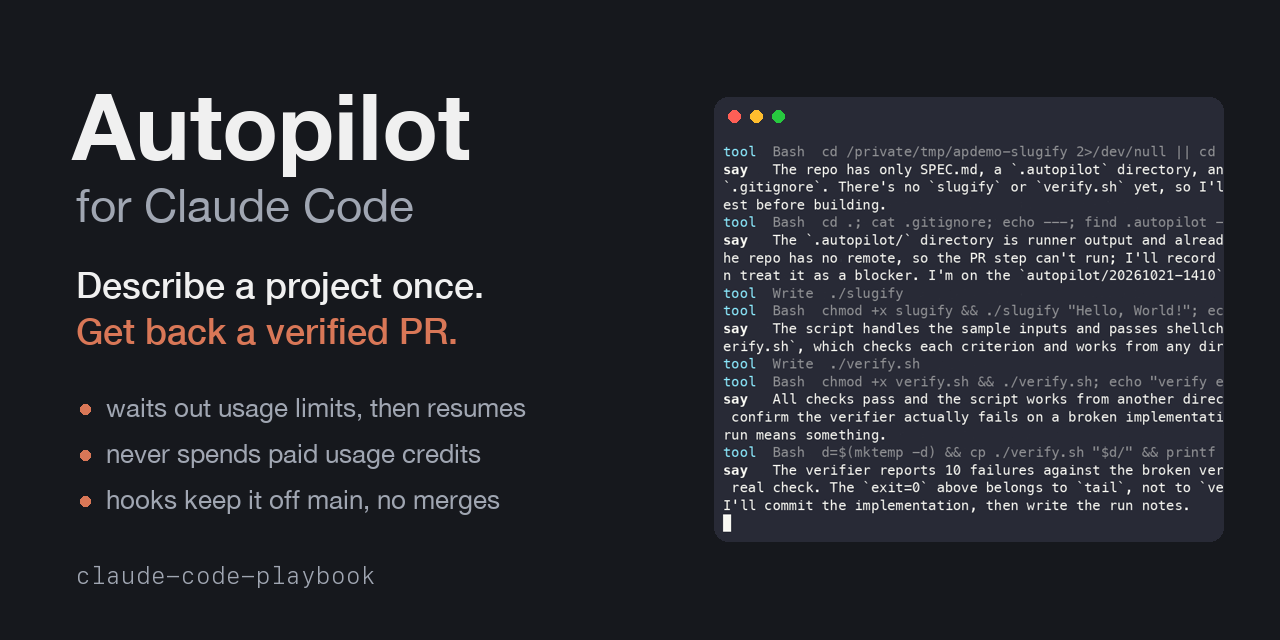
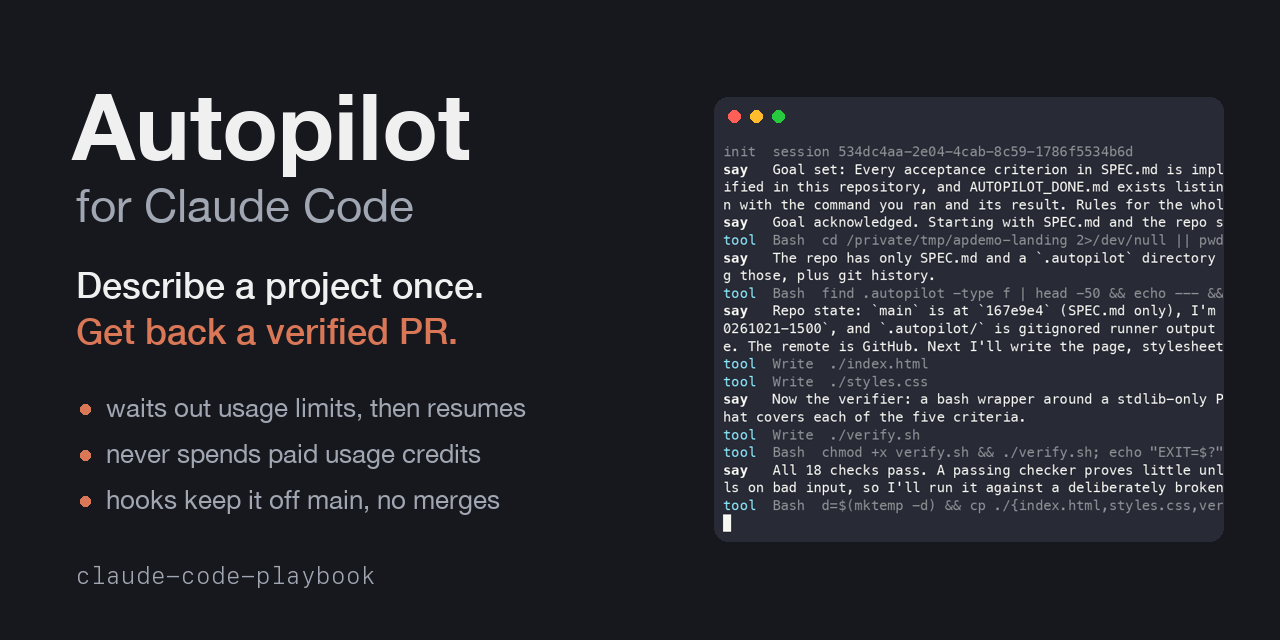
Demo: a real run that opens its own PR; fix duplicated runner log lines
The demo now records autopilot building a landing page against a throwaway
private GitHub repo, so the GIF ends on the PR it opened. That was also the
first live end-to-end check of the PR step. Recording it showed `autopilot
start` writing every log line twice (stderr was also redirected into the log
that log() appends to) and a "No such file" error on the first attempt; both
fixed, with tests that fail without the fix.

Changed region(s): [[0.5625, 0.2188, 0.9688, 0.8125], [0.5625, 0.2188, 0.5938, 0.25]]

diff --git a/docs/assets/tidy_cast.py b/docs/assets/tidy_cast.py
@@ -11,7 +11,8 @@ hdr = json.loads(lines[0])
 out = [json.dumps(hdr)]
 GREEN, CYAN, DIM, BOLD, RST = '\x1b[32m', '\x1b[36m', '\x1b[2m', '\x1b[1m', '\x1b[0m'
 def fix(l):
-    l = l.replace('/private/tmp/apdemo/slugify/', './').replace('/private/tmp/apdemo/slugify', '.').replace('/tmp/apdemo/slugify', '.')
+    l = re.sub(r'(/private)?/tmp/apdemo/[\w-]+/', './', l)
+    l = re.sub(r'(/private)?/tmp/apdemo/[\w-]+\b', '.', l)
     m = re.match(r'^(tool|say|init|end)(\s+)(.*)$', l)
     if not m: return l
     tag, sp, rest = m.groups()

diff --git a/docs/pr/2026-10-21-docs-demo-assets.md b/docs/pr/2026-10-21-docs-demo-assets.md
@@ -1,42 +1,61 @@
-# Demo GIF readable on phones, with a title header; social preview image
+# Demo of a real run that opens its own PR; GIF readable on phones; two runner log fixes
 
 ## Summary
-The demo GIF from #2 used 100 columns at 14px. On a phone, where most people will first see it in a post on X, the text was unreadable. This PR re-renders the same recording, without running autopilot again, at 76 columns and 22px with a title header. It also adds a 1280x640 social preview image for the repo's link card, and the scripts that produce both. The README caption now states exactly what was changed for display, and that the demo project has no remote, so the run stops before the PR step.
+The first demo GIF (#2) stopped before the PR step, because the demo project had no remote. It was also too small to read on a phone. This PR records a new real run against a throwaway private GitHub repo, [`autopilot-demo-landing`](https://github.com/filipejesse/autopilot-demo-landing/pull/1). Autopilot builds a small landing page from a 5-criterion SPEC.md, verifies it with 18 checks, and **opens its own pull request with a PR doc**, in about 1 min 45 s. It is the first live end-to-end check of that step. The GIF is rendered at phone-readable size with a title header. A social preview image is added. Recording the demo also surfaced two cosmetic runner bugs, fixed here with regression tests.
 
 ## Changes
-- Demo GIF re-rendered: 76 cols, 22px SF Mono, header "Autopilot for Claude Code / Describe a project once. Get back a verified PR.", about 33 s (`docs/assets/autopilot-demo.gif`)
+- Demo script now builds the "Acme Notes" landing page and, with `DEMO_REPO` set, creates that repo private and lets autopilot open its PR (`docs/assets/record-autopilot-demo.sh`)
+- New GIF: 76 cols, 22px, title header, about 39 s, ending on the PR URL and its files (`docs/assets/autopilot-demo.gif`)
 - Social preview, 1280x640, for Settings → Social preview (`docs/assets/social-preview.png`)
-- `tidy_cast.py`: display-only cleanup of the recording. Shortens the temp path to `./`, colors the `tool`/`say`/`end` tags, and cuts `tool` lines to one row. Claude's messages and all other output are unchanged (`docs/assets/tidy_cast.py`)
-- `brand.py`: adds the header to every frame, keeping frame timing, and draws the social preview (`docs/assets/brand.py`)
-- Recording instructions and README caption updated (`docs/assets/record-autopilot-demo.sh`, `README.md`)
+- `tidy_cast.py`: display-only cleanup (temp paths → `./`, colored tags, one row per tool call). `brand.py`: header on every frame, same timing; draws the social preview (`docs/assets/`)
+- Runner fix: `autopilot start` sent the runner's stderr to `autopilot.log`, where `log()` already writes, so every line appeared twice. Stray output now goes to `.autopilot/runner.out` (`home/bin/autopilot`)
+- Runner fix: on the first attempt, `wc -l <events.jsonl` printed "No such file" because the redirection failed before `2>/dev/null` applied. It is now wrapped in a group (`home/bin/autopilot`)
+- Two regression tests for `start` (`tests/run.sh`); README caption and CHANGELOG
 
 ## How it works
+
+### The recorded run
 ```mermaid
 sequenceDiagram
     participant Rec as record-autopilot-demo.sh
-    participant AC as asciinema rec
-    participant T as tidy_cast.py
-    participant AGG as agg
-    participant B as brand.py
-    AC->>Rec: run headless, 100x32
-    Rec-->>AC: real autopilot run (Haiku), saved as demo.cast
-    AC->>T: demo.cast
-    T-->>AGG: tidy.cast (paths, tag colors, one-row tool lines)
-    AGG-->>B: term.gif (76 cols, 22px, 1.5x, idle capped at 2 s)
-    B-->>B: header on each frame, same durations
-    Note over B: writes autopilot-demo.gif and social-preview.png
+    participant GH as GitHub
+    participant AP as autopilot runner
+    participant CC as claude -p /goal (Haiku)
+    Rec->>Rec: SPEC.md (5 criteria), git init, first commit
+    Rec->>GH: gh repo create DEMO_REPO --private --push
+    Rec->>AP: autopilot start
+    AP->>AP: billing check, branch autopilot/20261021-1500
+    AP->>CC: goal, auto mode, no prompts
+    CC->>CC: index.html, styles.css, verify.sh, 18 of 18 checks
+    CC->>CC: verify.sh against a broken copy fails (checker is real)
+    CC->>GH: /open-pr: PR doc with sequence + flowchart, push branch, gh pr create
+    GH-->>CC: pull/1
+    CC-->>AP: AUTOPILOT_DONE.md with evidence and PR URL
+    Rec->>GH: gh pr view (shown at the end of the GIF)
+```
+
+### From recording to assets
+```mermaid
+flowchart LR
+    A["demo.cast, unchanged"] --> B["tidy_cast.py: paths, colors, one-row tool lines"]
+    B --> C["agg: 76 cols, 22px, 2x, idle capped"]
+    C --> D["brand.py: header on each frame"]
+    D --> E[autopilot-demo.gif]
+    D --> F[social-preview.png]
 ```
 
 ## Verification
 | Check | Command | Result |
 |---|---|---|
-| Display cleanup changes only what it says | `diff` of event lines from tidy runs; manual frame review | events identical across runs; frames reviewed at the start, middle and end |
-| GIF size and length | Pillow: frame sizes and durations | 1033x776, 31 frames, 33.4 s, 2.4 MB (X allows 15 MB) |
-| Social preview size | Pillow | 1280x640 PNG, 189 KB (GitHub recommends 1280x640, under 1 MB) |
-| Scripts | `python3 -m py_compile docs/assets/*.py`; `shellcheck --severity=warning docs/assets/*.sh` | ok |
-| Test suite | `tests/run.sh` | 110 passed, 0 failed |
+| Real run, end to end | `DEMO_REPO=filipejesse/autopilot-demo-landing asciinema rec … record-autopilot-demo.sh` | Claude Code 2.1.306, Haiku: DONE in 1 min 43 s; PR [autopilot-demo-landing#1](https://github.com/filipejesse/autopilot-demo-landing/pull/1) with `docs/pr/…md` (sequenceDiagram + flowchart), not merged |
+| Result renders | page served locally, viewed at 375 px and 1280 px | hero, 3 features, 2 plans, footer; one spacing nit (the Pricing heading touches the feature cards), not covered by the structural SPEC |
+| Display cleanup only | `diff` of event lines across tidy runs; frames reviewed at the start, middle and end | events unchanged apart from the stated cleanup |
+| GIF | Pillow | 1033x776, 53 frames, 38.9 s, 4.0 MB (X allows 15 MB) |
+| Runner fixes | `tests/run.sh` with and without the fix | with: 112 passed, 0 failed. Without: the 2 new tests fail |
+| Lint | `shellcheck --severity=warning install.sh tests/run.sh home/statusline.sh home/hooks/*.sh home/bin/autopilot docs/assets/*.sh`; `python3 -m py_compile docs/assets/*.py` | ok |
 
 ## Risks and follow-ups
-- The demo project has no GitHub remote, so the GIF doesn't show the PR step, and the caption says so. To show it, record a run against a throwaway GitHub repo. That would also be the first live end-to-end check of autopilot opening its own PR.
+- The demo repo is private. Make it public too if the post should link to the PR it opened, or delete it after posting.
 - The social preview is not applied automatically: GitHub only accepts it through Settings → Social preview.
 - `brand.py` uses macOS system fonts.
+- Still not observed live: the wait at a real usage limit.

diff --git a/README.md b/README.md
@@ -15,7 +15,7 @@ It's built around three goals:
 
 ![A real autopilot run: SPEC.md, autopilot start, the live log, AUTOPILOT_DONE.md with evidence, the commits](docs/assets/autopilot-demo.gif)
 
-*A real run (Haiku, about 70 seconds), sped up. For readability, long tool-call lines are cut to one row and paths shortened; nothing else is changed. Recorded with [`docs/assets/record-autopilot-demo.sh`](docs/assets/record-autopilot-demo.sh). The demo project has no remote, so the run stops before the PR step.*
+*A real run: Haiku builds a small landing page from a 5-criterion SPEC.md, verifies it (18 checks), and opens its own pull request on a throwaway GitHub repo, in about 1 min 45 s. The GIF is sped up; for readability, tool-call lines are cut to one row and paths shortened, and nothing else is changed. Recorded with [`docs/assets/record-autopilot-demo.sh`](docs/assets/record-autopilot-demo.sh).*
 
 ```text
 claude                      # in an empty folder

diff --git a/CHANGELOG.md b/CHANGELOG.md
@@ -2,6 +2,10 @@
 
 Newest first. Each entry links the review it came from (see `docs/last-reviewed.md`).
 
+## 2026-10-21 (demo with a real PR)
+- First live end-to-end run that opened its own PR: a landing page from SPEC.md to a verified PR with its PR doc in about 1 min 45 s. The README demo GIF now shows that run, readable on phones, with a title header; `docs/assets/social-preview.png` is for the repo's link card.
+- Fixed: `autopilot start` wrote every runner log line twice, and the first attempt logged a harmless "No such file" error.
+
 ## 2026-10-21 (open-source readiness)
 - README leads with autopilot: a recorded real run, requirements (plan, Claude Code version, permissions), a safety warning, known limitations, and an "unofficial" notice.
 - `./install.sh --autopilot-only` installs only what autopilot needs; `--uninstall` still removes everything.
